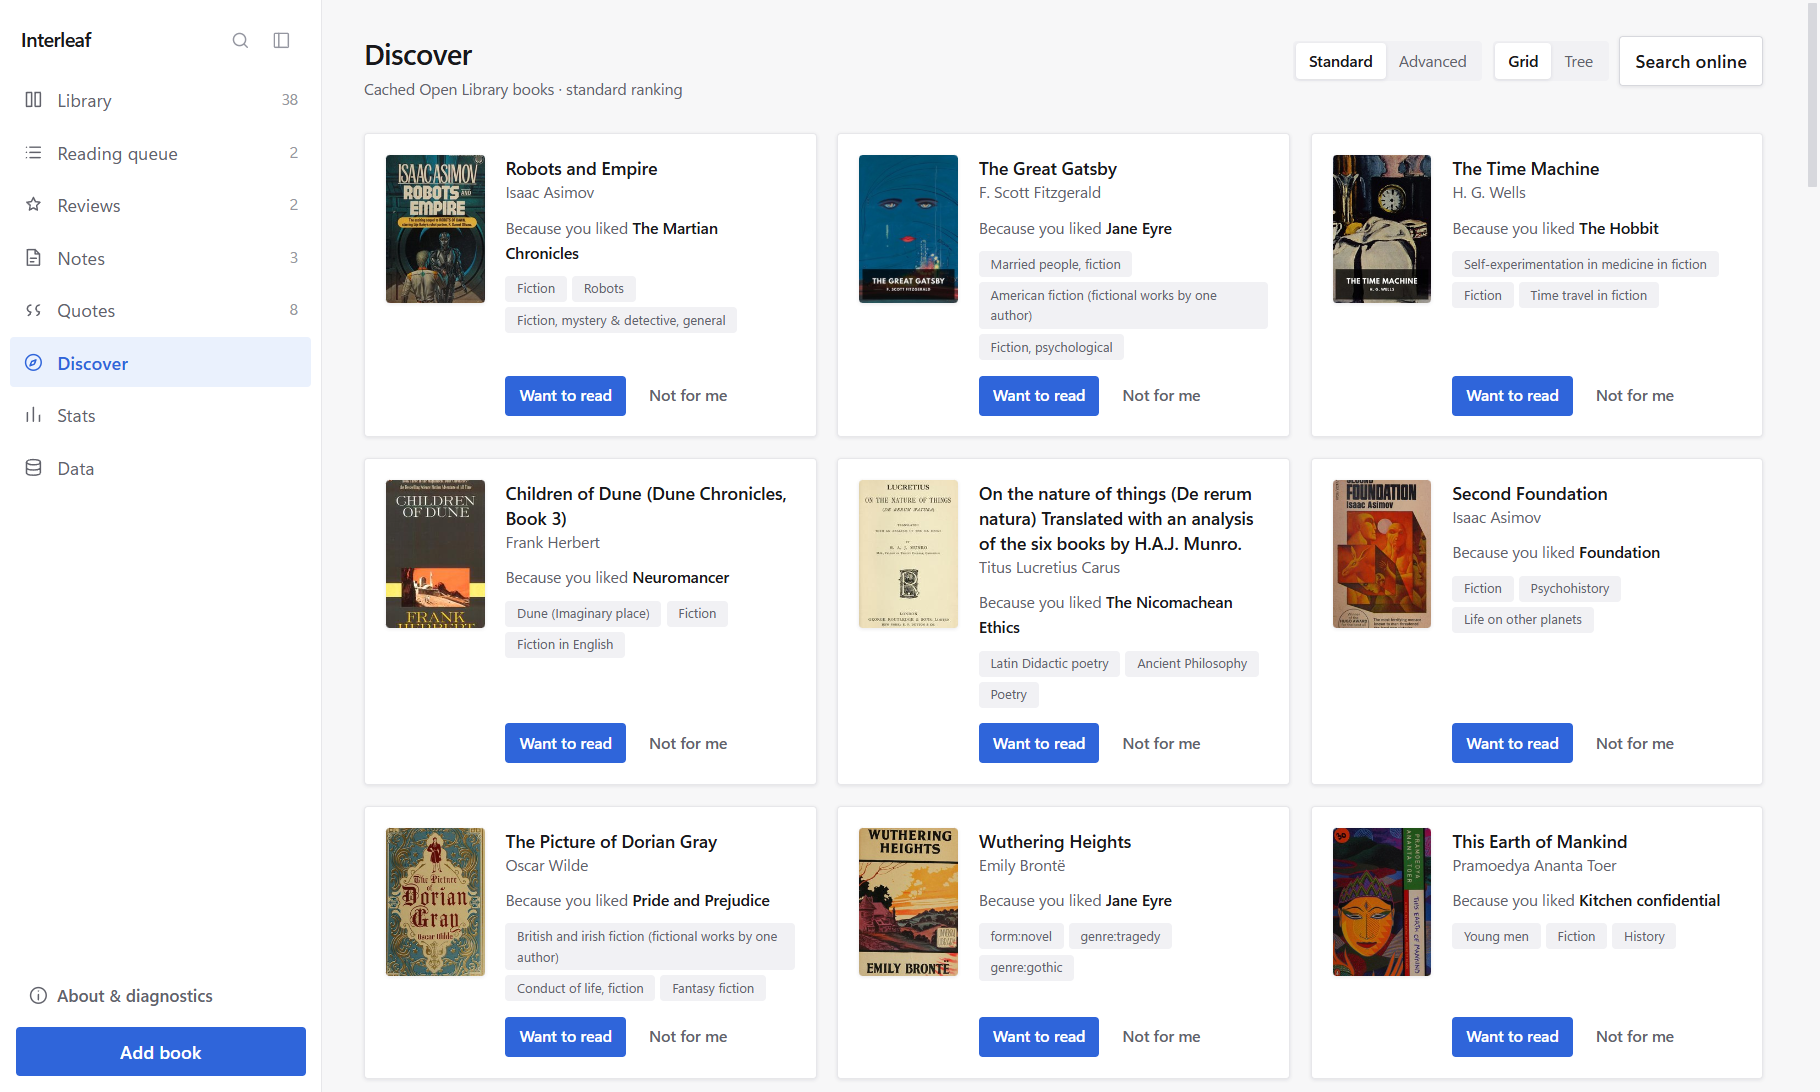
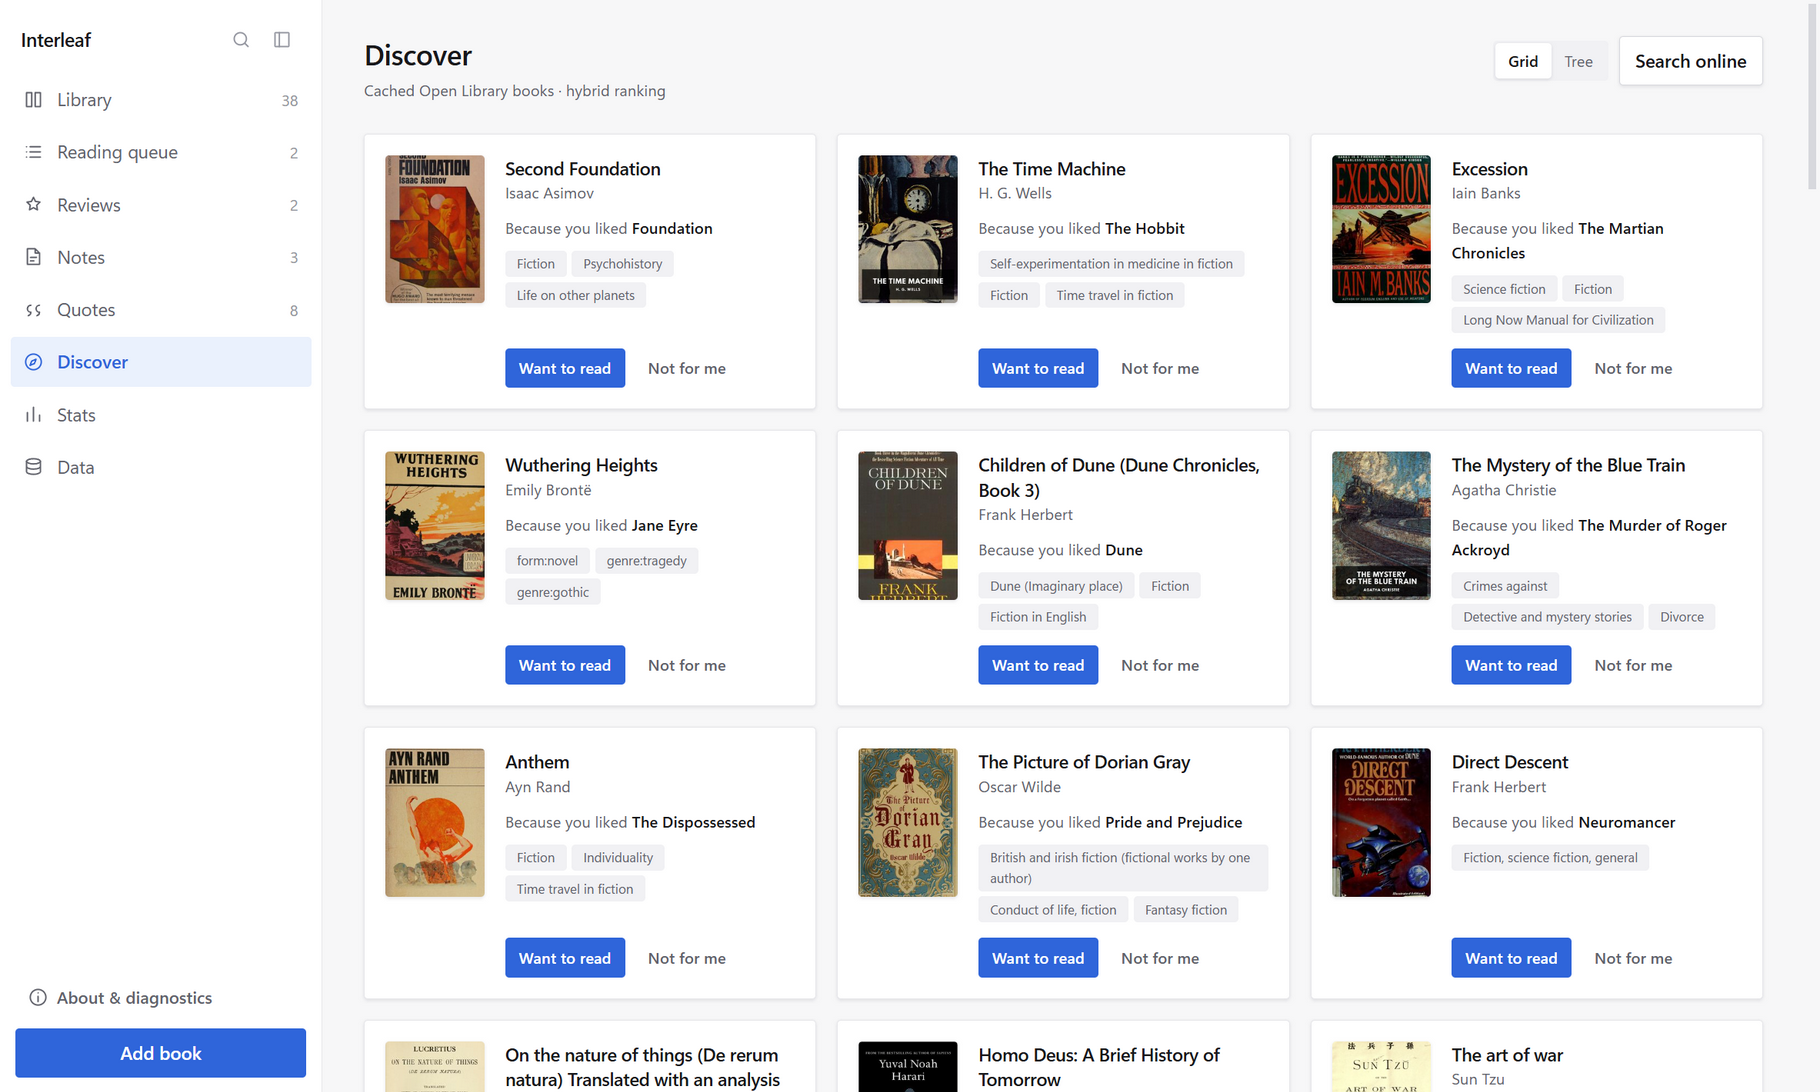
Refresh README screenshots

diff --git a/README.md b/README.md
@@ -16,12 +16,12 @@ itself runs locally.
 one resembles. Hybrid combines local keyword and meaning-based rankings over the same cached
 candidate pool, with keyword-only matching as the automatic fallback.
 
-<img src="docs/screenshots/03-discover.png" width="700" alt="Discover, showing recommendations with a because-you-liked line and Open Library subject chips">
+<img src="docs/screenshots/03-discover.png" width="700" alt="Discover with Hybrid ranking, because-you-liked explanations and Open Library subject chips">
 
 Explore recommendations as a tree. Zoom and pan to see how suggestions relate to one another;
-this view shows part of the tree at 100% zoom.
+this view shows the Wuthering Heights branch at 80% zoom.
 
-<img src="docs/screenshots/04-tree.png" width="700" alt="The recommendation tree at 100% zoom, starting with The Picture of Dorian Gray on the left">
+<img src="docs/screenshots/04-tree.png" width="700" alt="Hybrid recommendation tree showing Wuthering Heights above three branching paths at 80% zoom">
 
 A book page: reading details on the left, with the review, quotes and notes edited in place. The
 sample entries below show a reading journal for _Project Hail Mary_.
